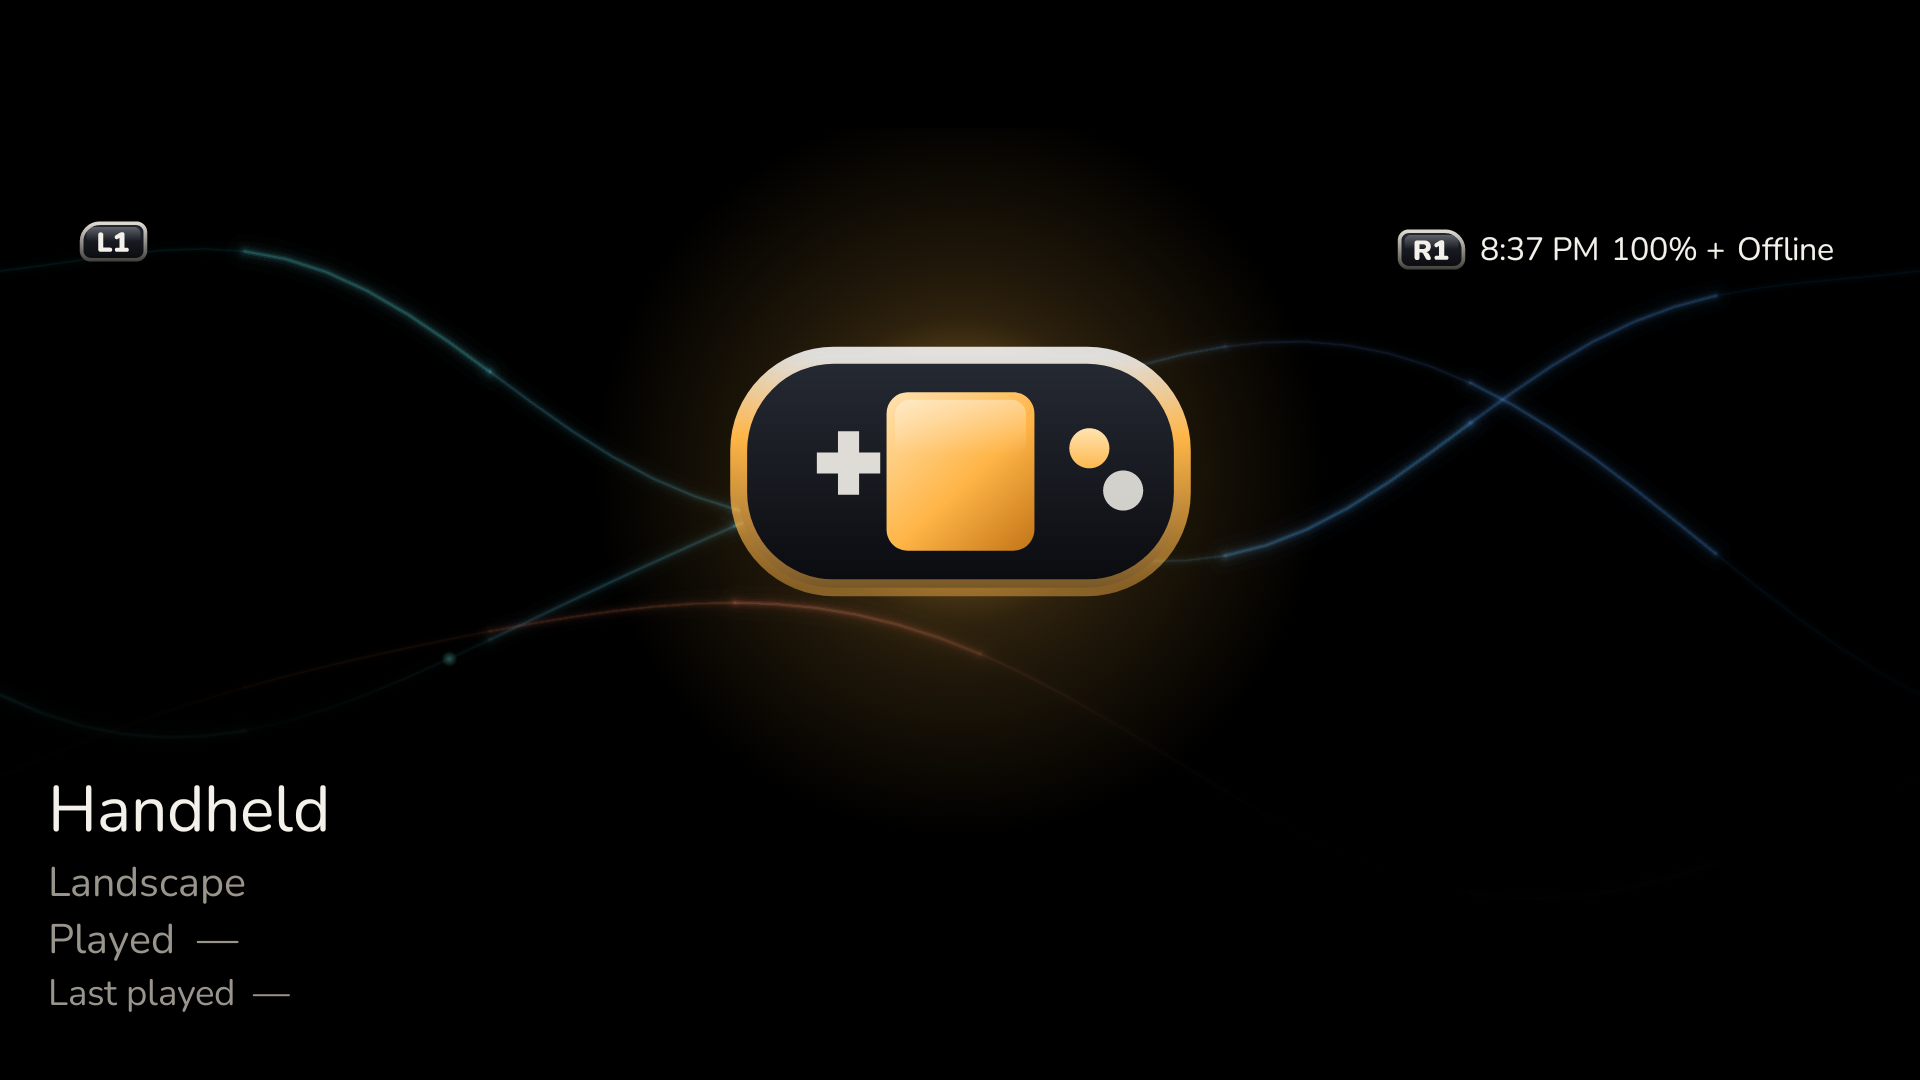
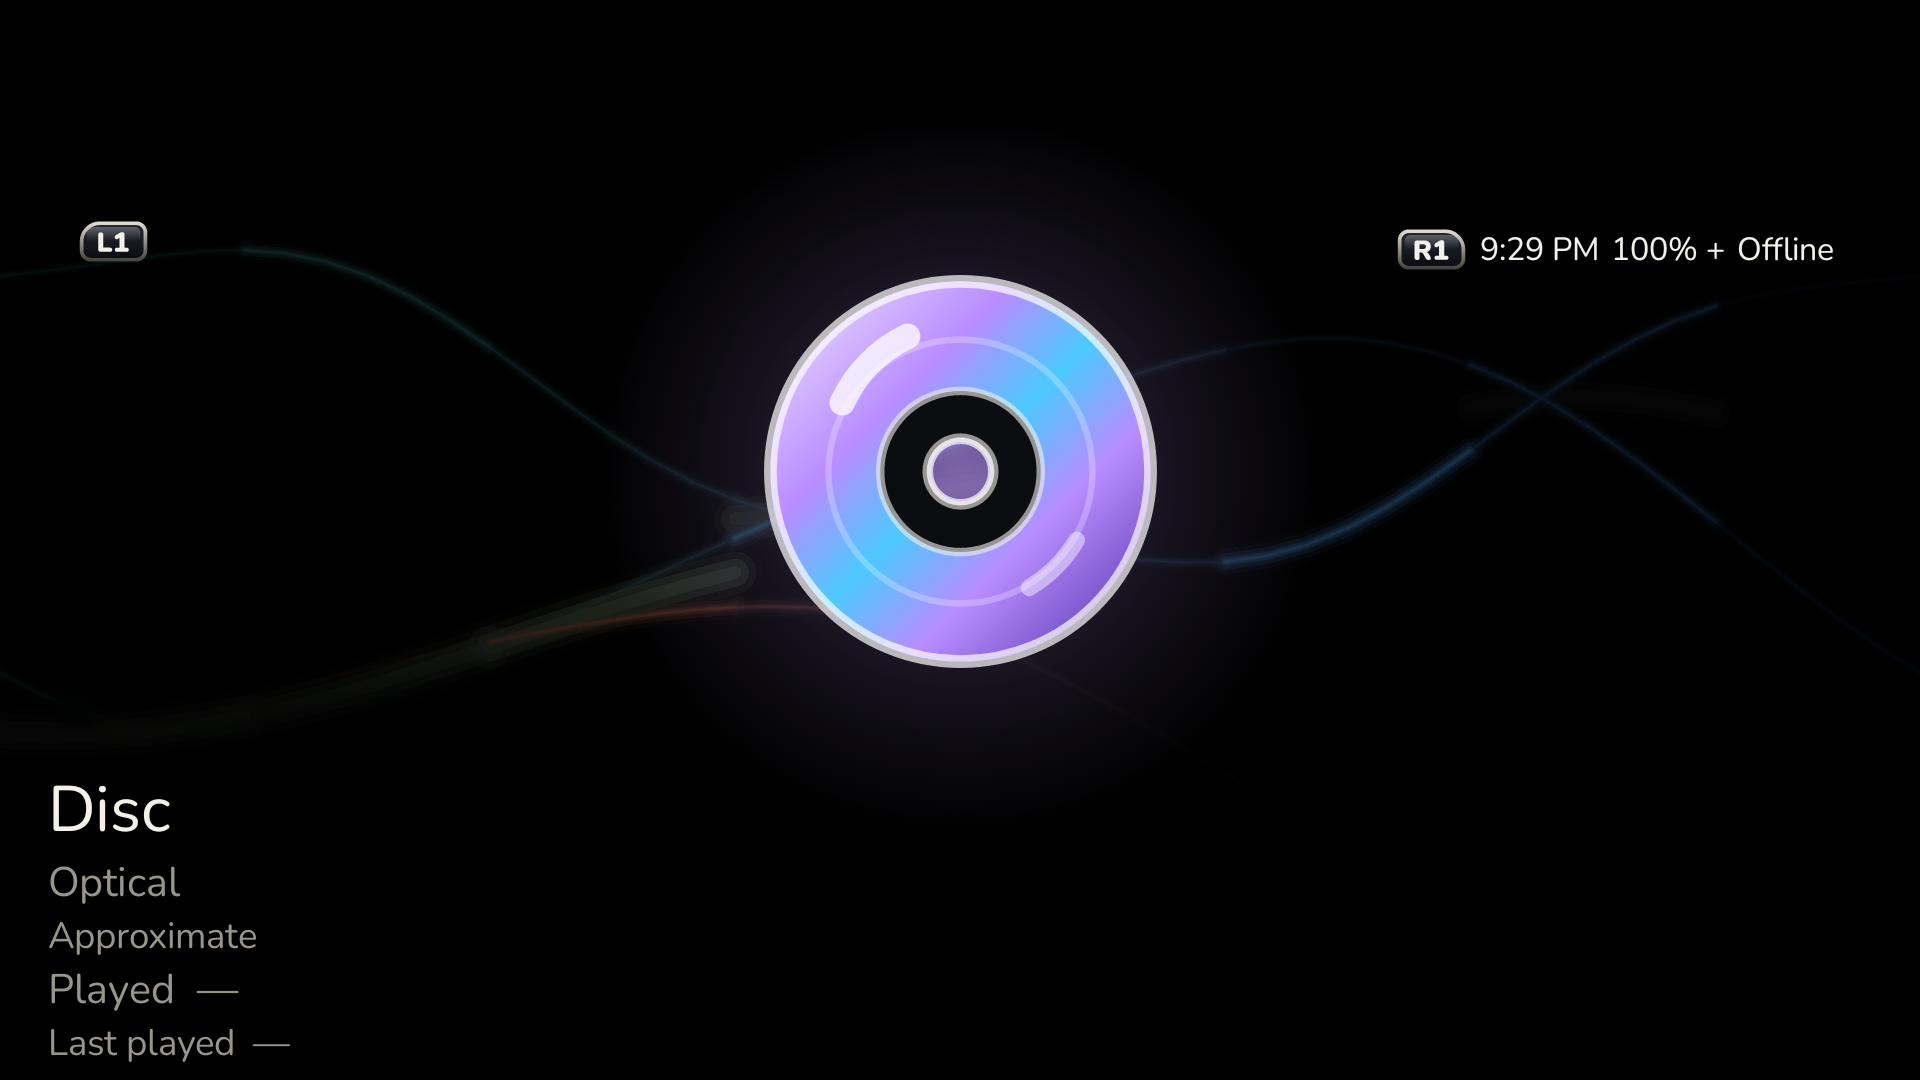
Keep one hero label while the artwork crossfades.
The name and details follow the arriving focus instead of sitting in both artwork layers, so two titles no longer stack in the same place. Recaptured the top screen before, during, and after Cloud to Disc. Emulator only, not a Thor pass.

diff --git a/app/src/main/kotlin/app/foldcade/ui/PanelScreen.kt b/app/src/main/kotlin/app/foldcade/ui/PanelScreen.kt
@@ -259,41 +259,17 @@ private fun Hero(app: FoldcadeApp, screen: HostScreen, scale: Float, onEffect: (
                 animatorScale = scale,
                 same = { left, right -> left?.key == right?.key },
             ) { shown ->
-                val copy = heroCopy(shown)
-                Column {
-                    Box(
-                        Modifier
-                            .fillMaxWidth()
-                            .height(artHeight),
-                        contentAlignment = Alignment.Center,
-                    ) {
-                        if (copy.showsArt && shown is HeroSubject.Item) {
-                            HeroArt(shown.item)
-                        }
-                    }
-                    BasicText(
-                        text = copy.title,
-                        style = text(theme.onBackground, TypeRamp.heroTitle, theme),
-                        maxLines = 1,
-                        overflow = TextOverflow.Ellipsis,
-                    )
-                    if (copy.detail.isNotEmpty()) {
-                        val hint = shown is HeroSubject.Item && shown.item.emptyShelfHint && cellFocused
-                        ShelfMeta(line = copy.detail, hintFocused = hint)
-                    }
-                    val availability = (shown as? HeroSubject.Item)?.item?.availability
-                    if (availability != null) {
-                        BasicText(
-                            text = availability,
-                            style = text(theme.muted, TypeRamp.availability, theme),
-                            maxLines = 1,
-                            overflow = TextOverflow.Ellipsis,
-                        )
-                    }
-                    if (shown is HeroSubject.Item) {
-                        PlayFacts(app, shown.item.key)
-                    }
+                Box(
+                    Modifier
+                        .fillMaxWidth()
+                        .height(artHeight),
+                    contentAlignment = Alignment.Center,
+                ) {
+                    if (shown is HeroSubject.Item) HeroArt(shown.item)
                 }
+            }
+            if (subject != null) {
+                HeroLabel(app, subject, cellFocused)
             }
         }
         Panels(app, screen, scale, onEffect)
@@ -301,9 +277,11 @@ private fun Hero(app: FoldcadeApp, screen: HostScreen, scale: Float, onEffect: (
 }
 
 /**
- * Crossfades the hero onto the newest focus. A second change before this
+ * Crossfades the artwork onto the newest focus. A second change before this
  * finishes retargets the same two layers instead of starting another fade.
- * Off, and remove-animations, fade over the short duration with no slide.
+ * The name and details are not in these layers: two labels in one place
+ * cannot be read. Off, and remove-animations, fade over the short duration
+ * with no slide.
  */
 @Composable
 private fun <T> HeroCrossfade(
@@ -361,6 +339,38 @@ private fun <T> HeroCrossfade(
         if (current != null) {
             Box(Modifier.heroArrival(incoming.value, fadeOnly)) { content(current) }
         }
+    }
+}
+
+/**
+ * One name and one detail line for the focus that just arrived.
+ * The artwork behind it may still be crossfading.
+ */
+@Composable
+private fun HeroLabel(app: FoldcadeApp, shown: HeroSubject, cellFocused: Boolean) {
+    val theme = foldTheme()
+    val copy = heroCopy(shown)
+    BasicText(
+        text = copy.title,
+        style = text(theme.onBackground, TypeRamp.heroTitle, theme),
+        maxLines = 1,
+        overflow = TextOverflow.Ellipsis,
+    )
+    if (copy.detail.isNotEmpty()) {
+        val hint = shown is HeroSubject.Item && shown.item.emptyShelfHint && cellFocused
+        ShelfMeta(line = copy.detail, hintFocused = hint)
+    }
+    val availability = (shown as? HeroSubject.Item)?.item?.availability
+    if (availability != null) {
+        BasicText(
+            text = availability,
+            style = text(theme.muted, TypeRamp.availability, theme),
+            maxLines = 1,
+            overflow = TextOverflow.Ellipsis,
+        )
+    }
+    if (shown is HeroSubject.Item) {
+        PlayFacts(app, shown.item.key)
     }
 }
 
